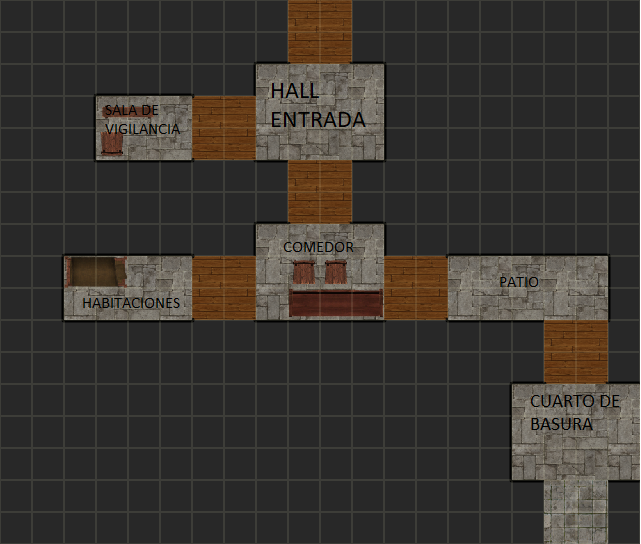
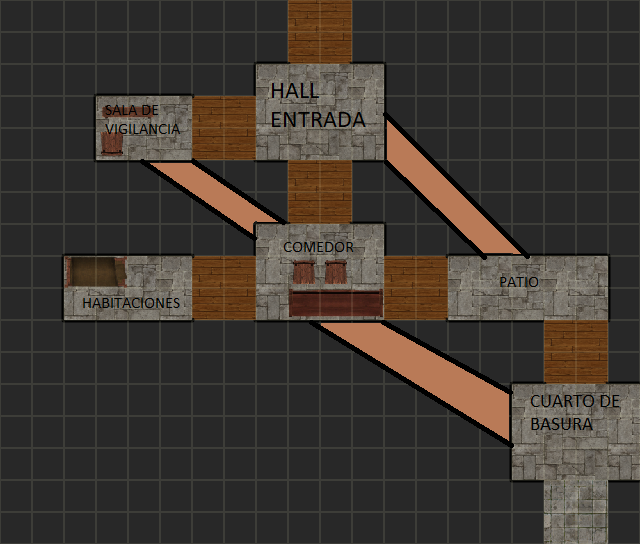
Añadimos salida sureste y modificamos el mapa.

Changed region(s): [[0.468, 0.5938, 0.8112, 0.8125], [0.5928, 0.2188, 0.8112, 0.4688], [0.2184, 0.2812, 0.4368, 0.4375]]

diff --git a/Game.java b/Game.java
@@ -45,12 +45,12 @@ public class Game
         cuarto = new Room("en el cuarto de basuras");
 
         // initialise room exits
-        hall.setExits(null, null, comedor, sala);
-        sala.setExits(null, hall, null, null);
-        comedor.setExits(hall, patio, null, habitaciones);
-        habitaciones.setExits(null, comedor, null, null);
-        patio.setExits(null, null, cuarto, comedor);
-        cuarto.setExits(patio, null, null, null);
+        hall.setExits(null, null, comedor, sala, patio);
+        sala.setExits(null, hall, null, null, comedor);
+        comedor.setExits(hall, patio, null, habitaciones, cuarto);
+        habitaciones.setExits(null, comedor, null, null, null);
+        patio.setExits(null, null, cuarto, comedor, null);
+        cuarto.setExits(patio, null, null, null, null);
 
         currentRoom = hall;  // start game outside
     }
@@ -158,6 +158,9 @@ public class Game
         if(direction.equals("west")) {
             nextRoom = currentRoom.westExit;
         }
+        if(direction.equals("southEast")) {
+            nextRoom = currentRoom.southEastExit;
+        }
 
         if (nextRoom == null) {
             System.out.println("There is no door!");
@@ -198,6 +201,9 @@ public class Game
         }
         if(currentRoom.westExit != null) {
             System.out.print("west ");
+        }
+        if(currentRoom.southEastExit != null) {
+            System.out.print("southEast ");
         }
         System.out.println();
     }

diff --git a/Room.java b/Room.java
@@ -19,6 +19,7 @@ public class Room
     public Room southExit;
     public Room eastExit;
     public Room westExit;
+    public Room southEastExit;
 
     /**
      * Create a room described "description". Initially, it has
@@ -39,7 +40,7 @@ public class Room
      * @param south The south exit.
      * @param west The west exit.
      */
-    public void setExits(Room north, Room east, Room south, Room west) 
+    public void setExits(Room north, Room east, Room south, Room west, Room southEast) 
     {
         if(north != null)
             northExit = north;
@@ -49,6 +50,8 @@ public class Room
             southExit = south;
         if(west != null)
             westExit = west;
+        if(southEast != null)
+            southEastExit = southEast;
     }
 
     /**
